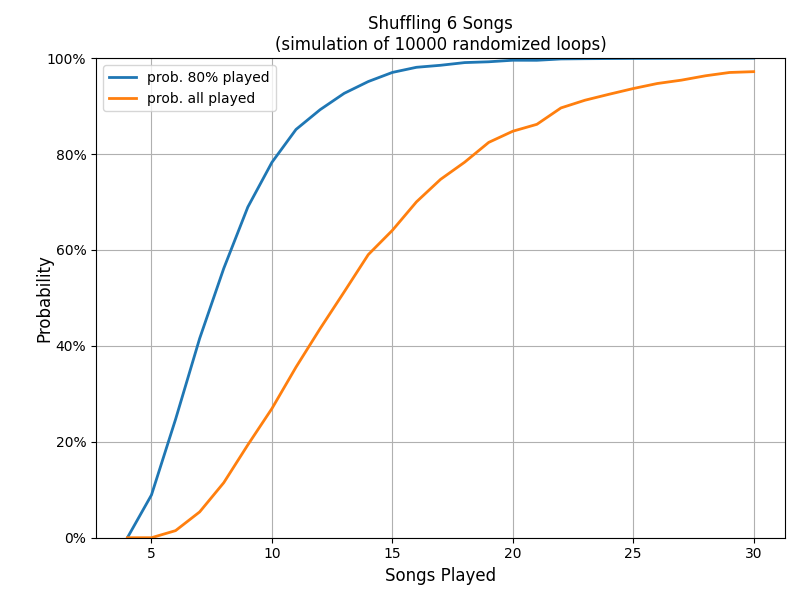
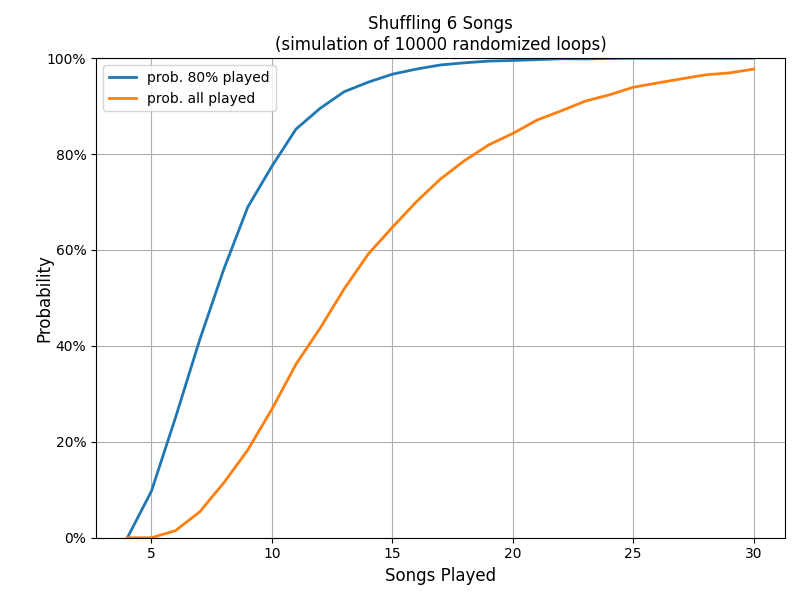
type hints

diff --git a/shuffle-music/shuffle_music_random.py b/shuffle-music/shuffle_music_random.py
@@ -18,7 +18,6 @@ import matplotlib.pyplot as plt
 import pandas as pd
 import shuffle_music_lib
 
-
 # TODO
 # generated random data -> file and re-generate only when not existing to speepup the plotting
 
@@ -27,21 +26,21 @@ import shuffle_music_lib
 # use pandas and matplotlib zu draw charts
 
 
-def gen_rand_playorder(total_songs: int, num_songs_played: int) -> list:
+def gen_rand_playorder(total_songs: int, num_songs_played: int) -> tuple[int]:
     """
     Generate a list of random playorder.
     """
-    playorder = []
+    playorder: list[int] = []
     for _step in range(num_songs_played):
         playorder.append(random.randint(0, total_songs - 1))  # noqa: S311
-    return playorder
+    return tuple(playorder)
 
 
 def loop_over_rand_playorders(
     total_songs: int,
     num_songs_played: int,
     num_test_loops: int,
-):
+) -> tuple[int, float, float]:
     total_songs_80pct = round(total_songs * 0.8, 0)
     cnt_all_played = 0
     cnt_80pct_played = 0
@@ -67,7 +66,9 @@ def loop_over_rand_playorders(
     return result
 
 
-def plot_results(total_songs: int, num_test_loops: int, results: list):
+def plot_results(
+    total_songs: int, num_test_loops: int, results: tuple[int, float, float]
+) -> None:
     df = pd.DataFrame(
         data=results,
         columns=(
@@ -101,8 +102,10 @@ def plot_results(total_songs: int, num_test_loops: int, results: list):
     )
 
 
-def run_simulation_single_processing(total_songs: int, num_test_loops: int) -> list:
-    results = []
+def run_simulation_single_processing(
+    total_songs: int, num_test_loops: int
+) -> tuple[tuple[int, float, float]]:
+    results: list[tuple[int, float, float]] = []
     for num_songs_played in range(total_songs, 5 * total_songs + 1):
         result = loop_over_rand_playorders(
             total_songs=total_songs,
@@ -110,7 +113,7 @@ def run_simulation_single_processing(total_songs: int, num_test_loops: int) -> l
             num_test_loops=num_test_loops,
         )
         results.append(result)
-    return results
+    return tuple(results)
 
 
 def run_simulation_multi_processing(total_songs: int, num_test_loops: int) -> list:
@@ -130,7 +133,7 @@ if __name__ == "__main__":
     total_songs = 6
     num_test_loops = 10_000
 
-    results = []
+    results: list = []
 
     time_start = time.time()
     # results = run_simulation_single_processing(

diff --git a/test_multiprocessing_vs_threading.py b/test_multiprocessing_vs_threading.py
@@ -10,7 +10,7 @@ import threading
 import time
 
 
-def worker_core(i: int, s: str) -> list:
+def worker_core(i: int, s: str) -> tuple[int, str, int]:
     """
     For worker_core_cpu and worker_core_io.
     """
@@ -19,7 +19,7 @@ def worker_core(i: int, s: str) -> list:
     return result
 
 
-def worker_core_cpu(i: int, s: str) -> list:
+def worker_core_cpu(i: int, s: str) -> tuple[int, str, int]:
     """
     For all CPU limited worker implementations.
     """
@@ -30,7 +30,7 @@ def worker_core_cpu(i: int, s: str) -> list:
     return result
 
 
-def worker_core_io(i: int, s: str) -> list:
+def worker_core_io(i: int, s: str) -> tuple[int, str, int]:
     """
     For all I/O limited worker implementations.
     """
@@ -39,14 +39,14 @@ def worker_core_io(i: int, s: str) -> list:
     return result
 
 
-def worker_multiprocessing_1(i: int, s: str) -> list:
+def worker_multiprocessing_1(i: int, s: str) -> tuple[int, str, int]:
     return worker_core_cpu(i=i, s=s)
 
 
 def worker_multiprocessing_2(
     q_work: multiprocessing.Queue,
     q_results: multiprocessing.Queue,
-):
+) -> None:
     """
     Not faster than multiprocessing_1.
     """
@@ -56,7 +56,7 @@ def worker_multiprocessing_2(
         q_results.put(result)
 
 
-def worker_threading_1(q_work: queue.Queue, results: dict):
+def worker_threading_1(q_work: queue.Queue, results: dict) -> None:
     """For threading_1."""
     while not q_work.empty():
         i, s = q_work.get()
@@ -65,7 +65,7 @@ def worker_threading_1(q_work: queue.Queue, results: dict):
         q_work.task_done()
 
 
-def multiprocessing_1(l_pile_of_work: list):
+def multiprocessing_1(l_pile_of_work: list) -> list[tuple[int, str, int]]:
     """
     For CPU limited tasks.
     """

diff --git a/shuffle-music/shuffle_music_lib.py b/shuffle-music/shuffle_music_lib.py
@@ -4,7 +4,7 @@ Shared methods.
 """
 
 
-def check_all_played(total_songs: int, playorder: list) -> bool:
+def check_all_played(total_songs: int, playorder: tuple[int]) -> bool:
     """
     Check if all songs are played = in playorder.
 
@@ -22,11 +22,11 @@ assert check_all_played(6, (5, 4, 3, 2, 1, 0)) is True
 assert check_all_played(6, (0, 1, 2, 3, 4, 0)) is False
 
 
-def check_cnt_unique_played(playorder: list) -> int:
+def check_cnt_unique_played(playorder: tuple[int]) -> int:
     """Count how many songs are played."""
-    how_many_played = set(playorder)  # set is a unique list
+    how_many_played: set[int] = set(playorder)  # set is a unique list
     return len(how_many_played)
 
 
-assert check_cnt_unique_played((0, 1, 2, 3, 4, 5)) == 6
-assert check_cnt_unique_played((0, 0, 2, 2, 4, 5)) == 4
+assert check_cnt_unique_played(playorder=(0, 1, 2, 3, 4, 5)) == 6
+assert check_cnt_unique_played(playorder=(0, 0, 2, 2, 4, 5)) == 4

diff --git a/test_threading.py b/test_threading.py
@@ -8,7 +8,7 @@ import threading
 import time
 
 
-def worker(q_work: queue.Queue, results: dict):
+def worker(q_work: queue.Queue, results: dict) -> None:
     while not q_work.empty():
         i, s = q_work.get()
         time.sleep(0.1)
@@ -20,9 +20,9 @@ def worker(q_work: queue.Queue, results: dict):
 if __name__ == "__main__":
     d_results = {}  # threads can write into dict
     # gen. pile of work
-    l_pile_of_work = []
+    l_pile_of_work: list[tuple[int, str]] = []
     for i in range(1_000):
-        tup = (i, "n" + str(i))
+        tup: tuple[int, str] = (i, "n" + str(i))
         l_pile_of_work.append(tup)
     # convert list of work to queue
     q_pile_of_work = queue.Queue(

diff --git a/cartesian-csv-gen/cartesian-csv-gen.py b/cartesian-csv-gen/cartesian-csv-gen.py
@@ -13,15 +13,15 @@ from configparser import ConfigParser
 config = ConfigParser()
 config.read("cartesian-csv-gen.ini")
 
-listOfKeys = []
-listsOfValues = []
+listOfKeys: list[str] = []
+listsOfValues: list[str] = []
 
 for k in config.options("dynamic"):
     s = config.get("dynamic", k)
     listOfKeys.append(k)
     l = s.split(",")
     l = [v.strip() for v in l]  # trim white spaces
-    listsOfValues.append(l)
+    listsOfValues.extend(l)
 
 with open("out.csv", "w", newline="\n") as fh:
     fh.write("\t".join(listOfKeys))

diff --git a/test_multiprocessing.py b/test_multiprocessing.py
@@ -6,14 +6,14 @@ import multiprocessing
 import os
 
 
-def worker(i: int, s: str) -> list:
+def worker(i: int, s: str) -> tuple[int, str, int]:
     result = (i, s, os.getpid())
     return result
 
 
 if __name__ == "__main__":
     # gen. pile of work
-    l_pile_of_work = []
+    l_pile_of_work: list[tuple[int, str]] = []
     for i in range(1_000):
         tup = (i, "n" + str(i))
         l_pile_of_work.append(tup)

diff --git a/UTF8_to_ANSI/convert_utf8_to_ansi.py b/UTF8_to_ANSI/convert_utf8_to_ansi.py
@@ -18,6 +18,7 @@ for f in glob.glob("in/*.*"):
     except UnicodeEncodeError:
         os.rename(f, f"error/{fileName}")
         print(f"ERROR reading '{fileName}' as UTF-8")
+        exit()
 
     try:
         with open(f"out/{fileName}", mode="w", encoding="ansi", newline="\r\n") as fh:
